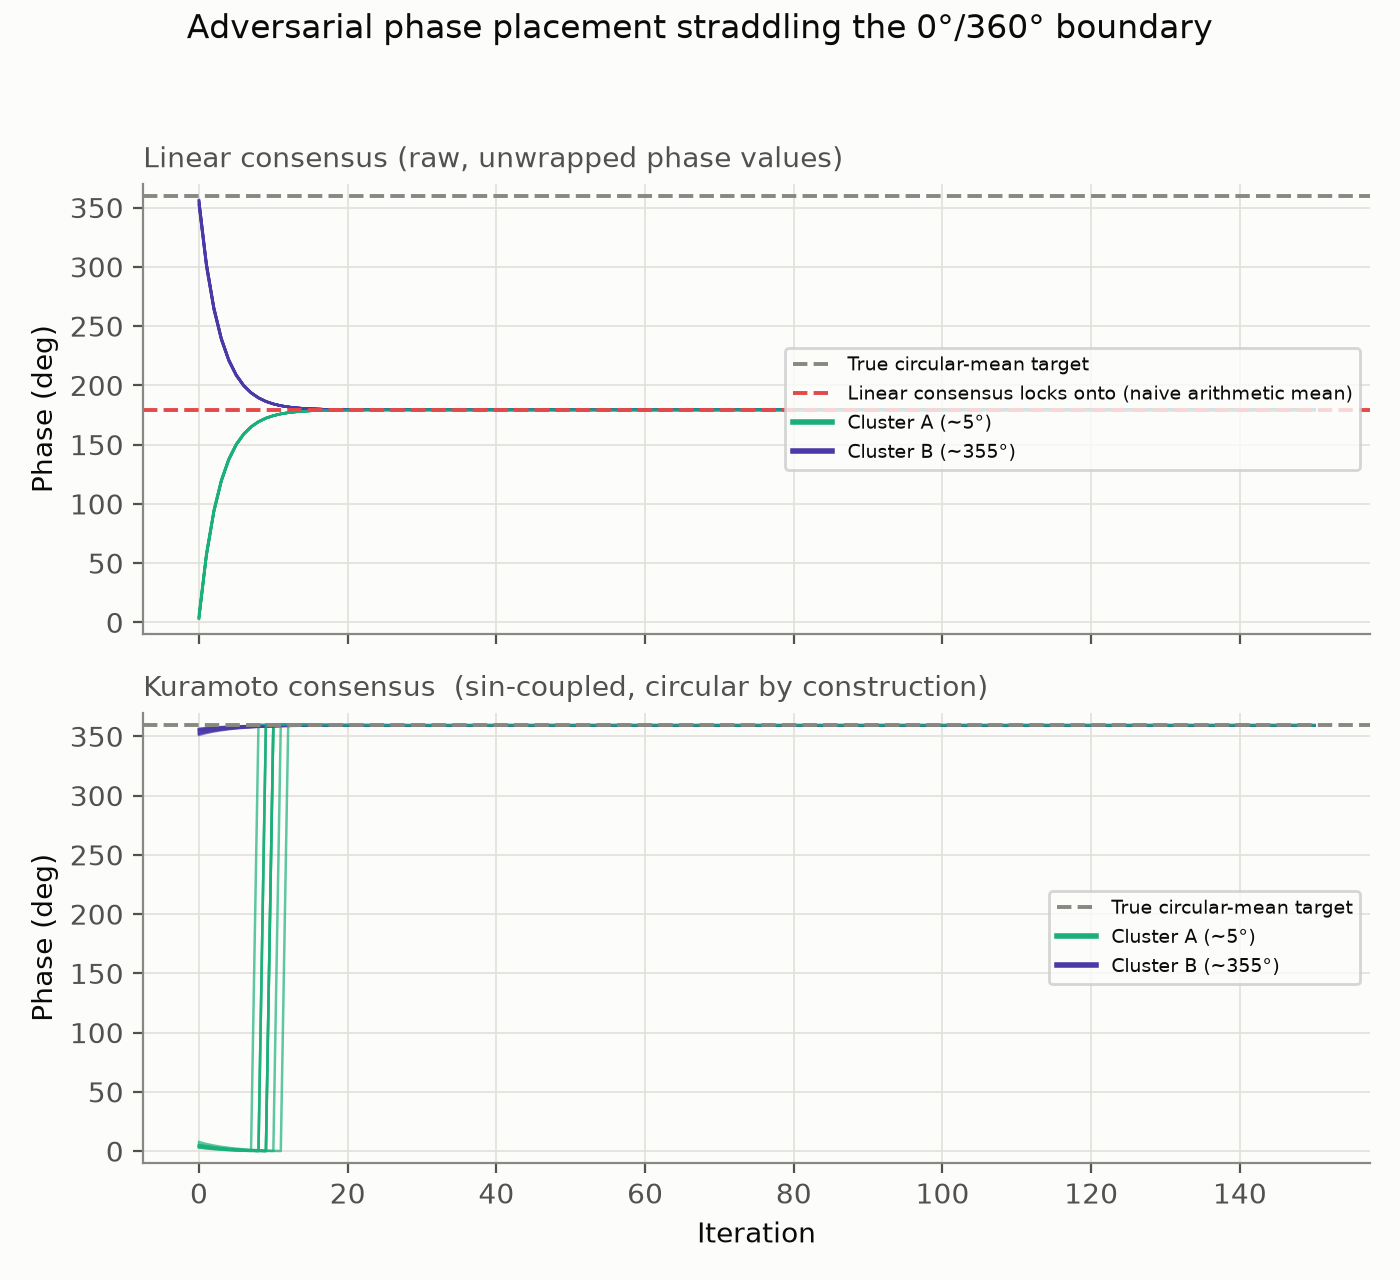
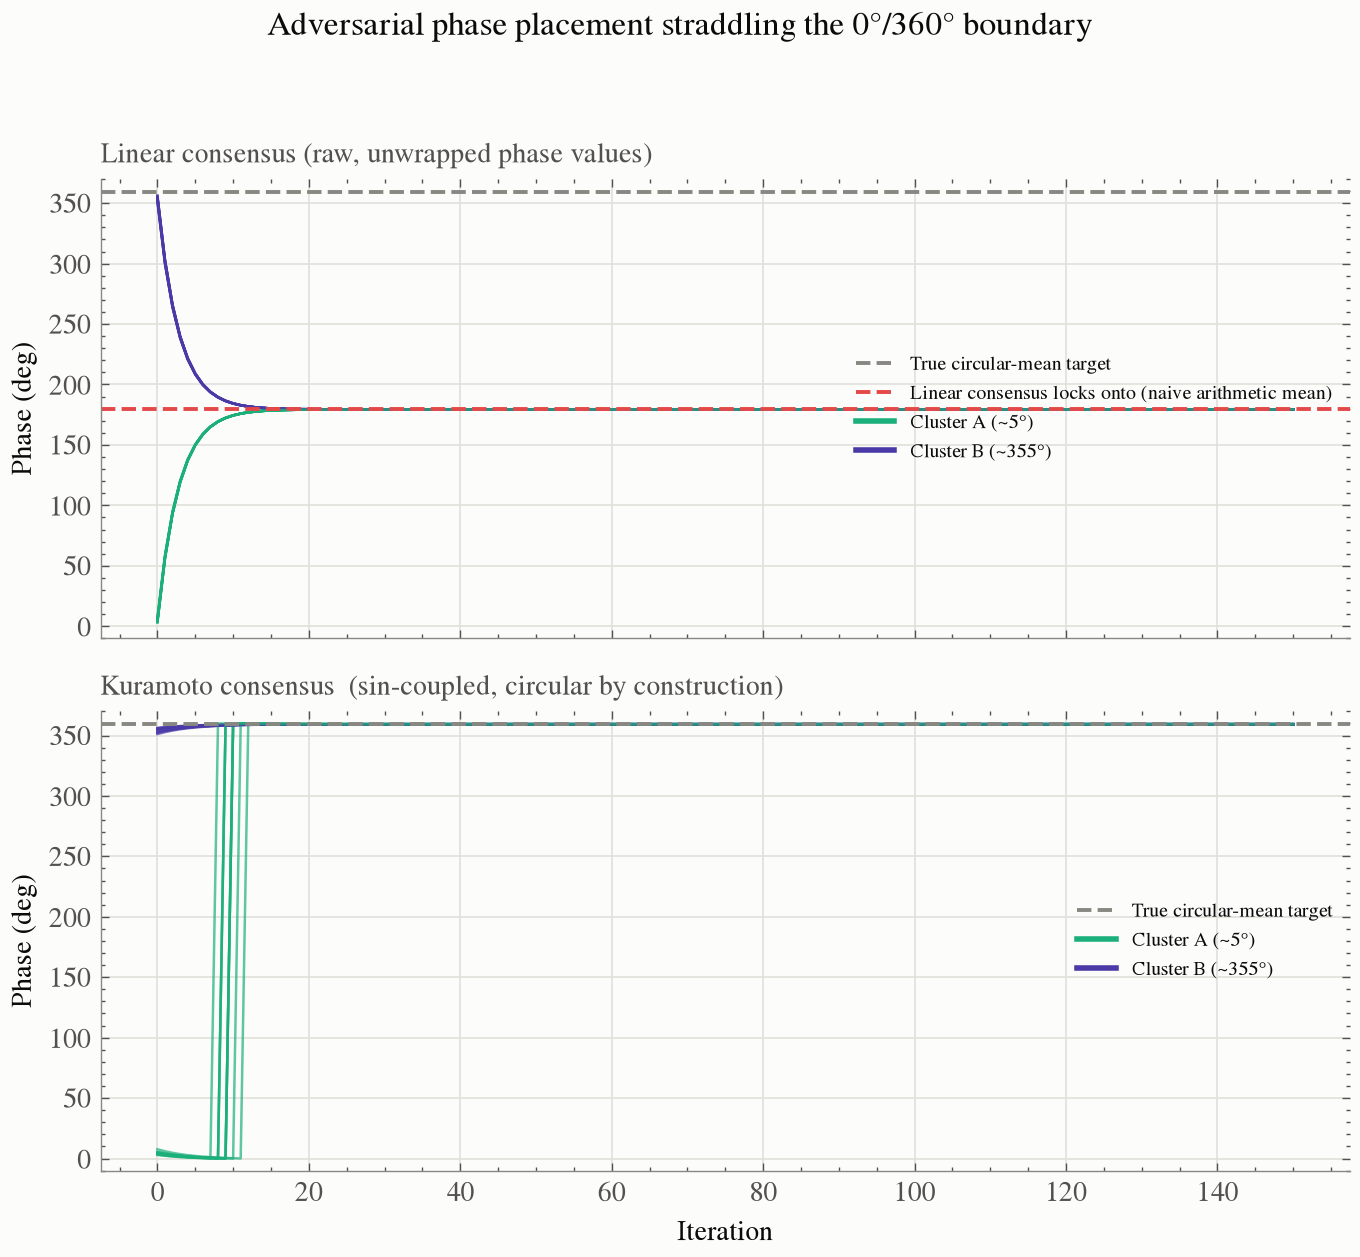
Quantify the Cramer-Rao bound for phase consensus and adopt scienceplots styling
Adds a von Mises noise model and closed-form CRLB (Var >= 1/(n*kappa*A1(kappa)))
for estimating a common phase from n noisy node readings. Monte Carlo confirms
circular-mean/Kuramoto consensus is statistically efficient (matches CRLB)
everywhere on the circle, while linear consensus only matches CRLB away from
the wrap boundary -- near mu=0 its error is bias-dominated (not variance-
dominated), and that bias does not vanish as n grows, so more nodes cannot
fix it. All figures now use the scienceplots ('science', 'no-latex') style.

diff --git a/_04_consensus_comparison/crlb_analysis.py b/_04_consensus_comparison/crlb_analysis.py
@@ -1,0 +1,130 @@
+"""
+Quantifies the Cramer-Rao lower bound (CRLB) for estimating a common phase
+from n noisy per-node measurements, and checks where linear consensus and
+circular (Kuramoto) consensus stand relative to it.
+
+Noise model: each node's reading is one draw from a von Mises(mu, kappa)
+distribution -- the circular analogue of N(mu, sigma^2), correctly defined
+on the circle. Its Fisher information gives a closed-form CRLB (see
+consensus.crlb_deg2). The circular mean is the von Mises MLE for mu, which
+is also the value Kuramoto consensus's sin-coupled dynamics settles onto
+(verified empirically in run_comparison.py to <0.001 deg for the tight-
+cluster case); the plain arithmetic mean is what linear consensus computes.
+"""
+import os
+import numpy as np
+import matplotlib.pyplot as plt
+import scienceplots  # noqa: F401
+
+from consensus import crlb_deg2, monte_carlo_trial_errors
+
+plt.style.use(["science", "no-latex"])
+
+BLUE = "#2a78d6"     # linear consensus
+ORANGE = "#eb6834"   # circular / kuramoto consensus
+MUTED = "#5a5a5a"    # CRLB reference
+
+plt.rcParams.update({
+    "figure.facecolor": "#fcfcfb",
+    "axes.facecolor": "#fcfcfb",
+    "font.size": 10,
+    "axes.grid": True,
+    "grid.color": "#e1e0d9",
+    "grid.linewidth": 0.6,
+})
+
+HERE = os.path.dirname(os.path.abspath(__file__))
+PLOTS_DIR = os.path.join(HERE, "plots")
+os.makedirs(PLOTS_DIR, exist_ok=True)
+
+rng = np.random.default_rng(42)
+KAPPA = 15.0          # ~14.8 deg effective noise std per reading
+TRIALS = 20000
+
+# ---------------------------------------------------------------
+# Figure 6: RMSE vs. number of nodes n, benign vs. adversarial mu
+# ---------------------------------------------------------------
+n_list = np.array([2, 4, 8, 16, 32, 64, 128, 256])
+
+results = {}
+for mu in (180.0, 0.0):
+    lin_rmse, circ_rmse = [], []
+    for n in n_list:
+        lin_err, circ_err = monte_carlo_trial_errors(mu, KAPPA, int(n), TRIALS, rng)
+        lin_rmse.append(np.sqrt(np.mean(lin_err ** 2)))
+        circ_rmse.append(np.sqrt(np.mean(circ_err ** 2)))
+    results[mu] = (np.array(lin_rmse), np.array(circ_rmse))
+
+crlb_rmse = np.sqrt(crlb_deg2(n_list, KAPPA))
+
+fig, axes = plt.subplots(1, 2, figsize=(8.5, 3.8), sharey=True)
+titles = {180.0: r"Benign: $\mu=180^\circ$ (far from wrap boundary)",
+          0.0: r"Adversarial: $\mu=0^\circ$ (astride wrap boundary)"}
+for ax, mu in zip(axes, (180.0, 0.0)):
+    lin_rmse, circ_rmse = results[mu]
+    ax.plot(n_list, lin_rmse, "o-", color=BLUE, lw=1.6, ms=4, label="Linear consensus", zorder=2)
+    ax.plot(n_list, circ_rmse, "s-", color=ORANGE, lw=2.4, ms=4, label="Kuramoto / circular mean", zorder=2)
+    ax.plot(n_list, crlb_rmse, "--", color=MUTED, lw=1.6, label=r"CRLB (theoretical)", zorder=3)
+    ax.set_xscale("log")
+    ax.set_yscale("log")
+    ax.set_xlabel("Number of nodes $n$")
+    ax.set_title(titles[mu], fontsize=9.5)
+axes[0].set_ylabel("RMSE (deg, log scale)")
+axes[1].legend(fontsize=7.5, loc="center right")
+fig.suptitle(r"Estimator efficiency vs. Cramer-Rao bound ($\kappa=%d$ von Mises noise)" % KAPPA, fontsize=11)
+fig.tight_layout(rect=[0, 0, 1, 0.94])
+fig.savefig(os.path.join(PLOTS_DIR, "06_crlb_vs_n.png"), dpi=200)
+plt.close(fig)
+
+# ---------------------------------------------------------------
+# Figure 7: bias and RMSE vs. true mean location mu (fixed n)
+# ---------------------------------------------------------------
+N_FIXED = 20
+mu_list = np.linspace(0.0, 180.0, 37)
+lin_bias, circ_bias, lin_rmse2, circ_rmse2 = [], [], [], []
+for mu in mu_list:
+    lin_err, circ_err = monte_carlo_trial_errors(mu, KAPPA, N_FIXED, TRIALS, rng)
+    lin_bias.append(lin_err.mean())
+    circ_bias.append(circ_err.mean())
+    lin_rmse2.append(np.sqrt(np.mean(lin_err ** 2)))
+    circ_rmse2.append(np.sqrt(np.mean(circ_err ** 2)))
+
+crlb_rmse_fixed = np.sqrt(crlb_deg2(N_FIXED, KAPPA))
+
+fig, (ax1, ax2) = plt.subplots(2, 1, figsize=(6.8, 6.2), sharex=True)
+
+ax1.axhline(0, color=MUTED, lw=1.0)
+ax1.plot(mu_list, lin_bias, color=BLUE, lw=1.8, label="Linear consensus")
+ax1.plot(mu_list, circ_bias, color=ORANGE, lw=1.8, label="Kuramoto / circular mean")
+ax1.set_ylabel("Bias (deg)")
+ax1.set_title(r"Bias vs. true phase location $\mu$  ($n=%d$, $\kappa=%d$)" % (N_FIXED, KAPPA),
+              fontsize=10.5, loc="left")
+ax1.legend(fontsize=8)
+
+ax2.plot(mu_list, lin_rmse2, color=BLUE, lw=1.8, label="Linear consensus", zorder=2)
+ax2.plot(mu_list, circ_rmse2, color=ORANGE, lw=2.6, label="Kuramoto / circular mean", zorder=2)
+ax2.axhline(crlb_rmse_fixed, color=MUTED, ls="--", lw=1.6, label="CRLB (theoretical)", zorder=3)
+ax2.set_yscale("log")
+ax2.set_xlabel(r"True phase $\mu$ (deg)")
+ax2.set_ylabel("RMSE (deg, log scale)")
+ax2.set_title("RMSE vs. CRLB -- the failure is bias-driven, not variance-driven",
+              fontsize=10.5, loc="left")
+ax2.legend(fontsize=8)
+
+fig.tight_layout()
+fig.savefig(os.path.join(PLOTS_DIR, "07_bias_and_crlb_vs_mu.png"), dpi=200)
+plt.close(fig)
+
+# ---------------------------------------------------------------
+# Console summary
+# ---------------------------------------------------------------
+print("=== CRLB quantification (von Mises noise, kappa=%.1f) ===" % KAPPA)
+print(f"CRLB RMSE at n={N_FIXED}: {crlb_rmse_fixed:.3f} deg")
+print()
+print(f"{'n':>5} | {'CRLB RMSE':>10} | {'linear RMSE (mu=180)':>21} | {'circ RMSE (mu=180)':>19} "
+      f"| {'linear RMSE (mu=0)':>19} | {'circ RMSE (mu=0)':>17}")
+for i, n in enumerate(n_list):
+    print(f"{n:5d} | {crlb_rmse[i]:10.3f} | {results[180.0][0][i]:21.3f} | {results[180.0][1][i]:19.3f} "
+          f"| {results[0.0][0][i]:19.3f} | {results[0.0][1][i]:17.3f}")
+
+print(f"\nSaved figures 06 and 07 to {PLOTS_DIR}")

diff --git a/_04_consensus_comparison/consensus.py b/_04_consensus_comparison/consensus.py
@@ -10,6 +10,46 @@ circle correctly. Adversarial placements that straddle the 0/360 deg
 wraparound boundary are the case that separates the two.
 """
 import numpy as np
+from scipy.special import iv as bessel_iv
+
+
+def sample_vonmises_deg(mu_deg, kappa, n, rng):
+    """
+    n i.i.d. noisy phase measurements of a true phase `mu_deg`, drawn from a
+    von Mises distribution (the circular analogue of a Gaussian) with
+    concentration `kappa` (higher kappa = less noise; kappa -> 0 is uniform
+    noise over the whole circle, kappa large behaves like N(mu, 1/kappa)).
+    Returned in degrees, wrapped to [0, 360).
+    """
+    mu_rad = np.deg2rad(mu_deg)
+    samples_rad = rng.vonmises(mu_rad, kappa, size=n)
+    return np.rad2deg(samples_rad) % 360.0
+
+
+def von_mises_A1(kappa):
+    """A1(kappa) = I1(kappa) / I0(kappa), the mean resultant length of a
+    von Mises(., kappa) distribution -- also the factor in its Fisher
+    information."""
+    return bessel_iv(1, kappa) / bessel_iv(0, kappa)
+
+
+def crlb_deg2(n, kappa):
+    """
+    Cramer-Rao lower bound on the variance (in deg^2) of any unbiased
+    estimator of the mean direction mu from n i.i.d. von Mises(mu, kappa)
+    samples. Fisher information per sample is kappa * A1(kappa), so
+        Var(mu_hat) >= 1 / (n * kappa * A1(kappa))   [rad^2]
+    Independent of mu itself (the von Mises family is rotation-invariant).
+    """
+    info_per_sample = kappa * von_mises_A1(kappa)
+    var_rad2 = 1.0 / (n * info_per_sample)
+    return var_rad2 * (180.0 / np.pi) ** 2
+
+
+def linear_mean_estimator_deg(samples_deg):
+    """The value linear consensus converges to: the plain arithmetic mean
+    of the raw [0, 360) readings -- no wraparound awareness."""
+    return np.mean(samples_deg) % 360.0
 
 
 def circular_mean_deg(angles_deg):
@@ -23,6 +63,31 @@ def circular_error_deg(angles_deg, target_deg):
     """Smallest-signed-angle distance of each node's phase to a target, in deg."""
     diff = (angles_deg - target_deg + 180.0) % 360.0 - 180.0
     return diff
+
+
+def monte_carlo_trial_errors(mu_deg, kappa, n, trials, rng):
+    """
+    Vectorized Monte Carlo: draws `trials` independent experiments of n
+    von-Mises(mu_deg, kappa) noisy phase readings each, and returns the
+    per-trial signed circular error (deg) of the linear-consensus estimate
+    (raw arithmetic mean) and the circular-mean estimate (Kuramoto
+    consensus's fixed point, see run_comparison.py for the empirical
+    dynamics-vs-closed-form check) against the true mu_deg.
+    """
+    mu_rad = np.deg2rad(mu_deg)
+    samples_rad = rng.vonmises(mu_rad, kappa, size=(trials, n))
+    samples_deg = np.rad2deg(samples_rad) % 360.0
+
+    lin_est = samples_deg.mean(axis=1) % 360.0
+
+    rad = np.deg2rad(samples_deg)
+    circ_est = np.rad2deg(
+        np.arctan2(np.sin(rad).mean(axis=1), np.cos(rad).mean(axis=1))
+    ) % 360.0
+
+    lin_err = circular_error_deg(lin_est, mu_deg)
+    circ_err = circular_error_deg(circ_est, mu_deg)
+    return lin_err, circ_err
 
 
 def complete_graph_laplacian(n):

diff --git a/_04_consensus_comparison/run_comparison.py b/_04_consensus_comparison/run_comparison.py
@@ -6,11 +6,14 @@ near 5 deg and 356 deg), and saves the report figures to ./plots/.
 import os
 import numpy as np
 import matplotlib.pyplot as plt
+import scienceplots  # noqa: F401
 
 from consensus import (
     make_adversarial_phases, circular_mean_deg, circular_error_deg,
     run_linear_consensus, run_kuramoto_consensus, kuramoto_order_parameter,
 )
+
+plt.style.use(["science", "no-latex"])
 
 # ---- palette (validated categorical set, light-surface values) ----
 BLUE = "#2a78d6"     # linear consensus
